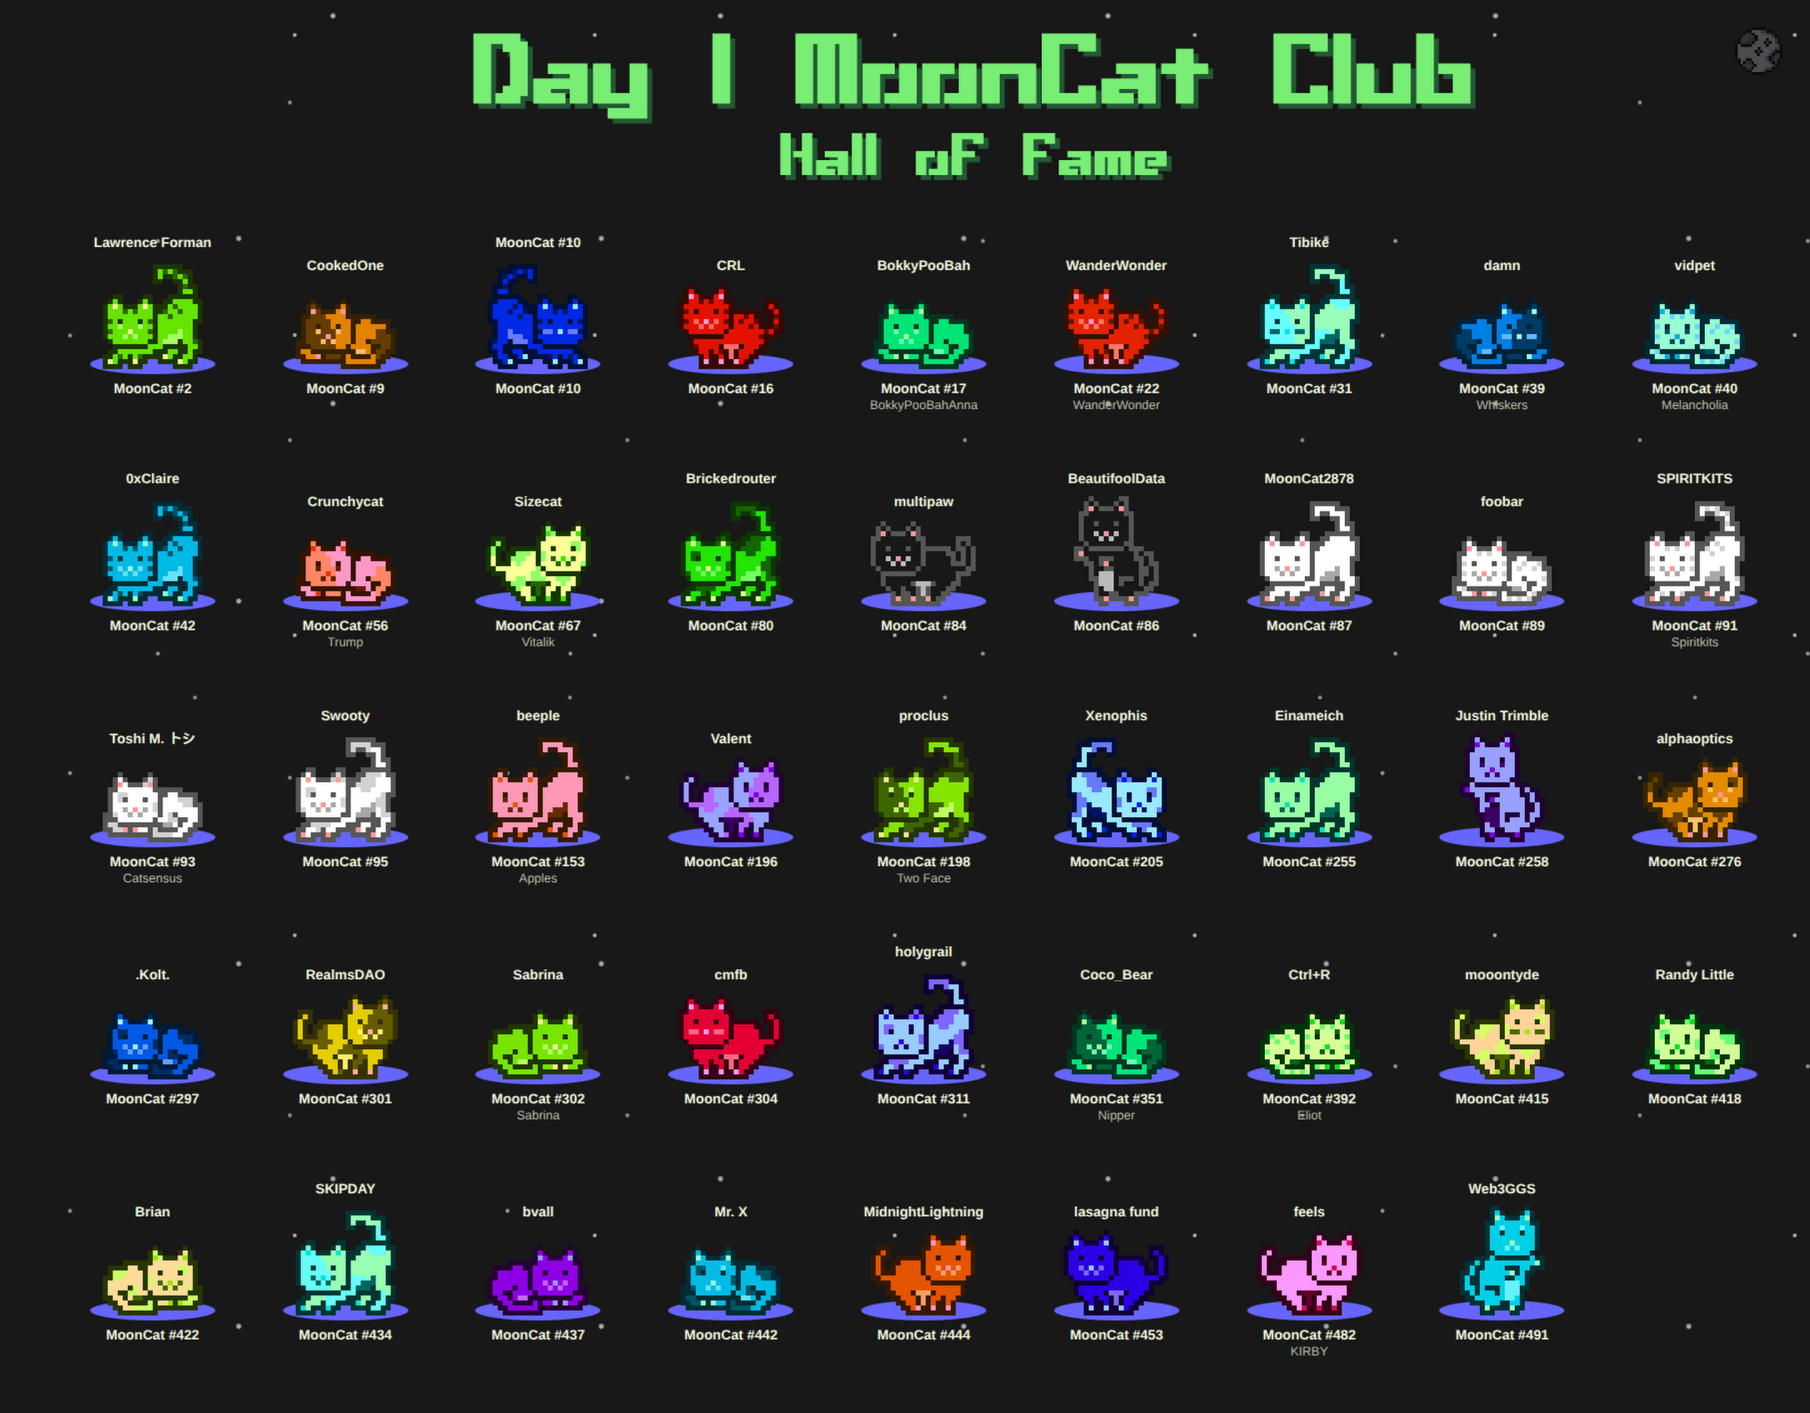
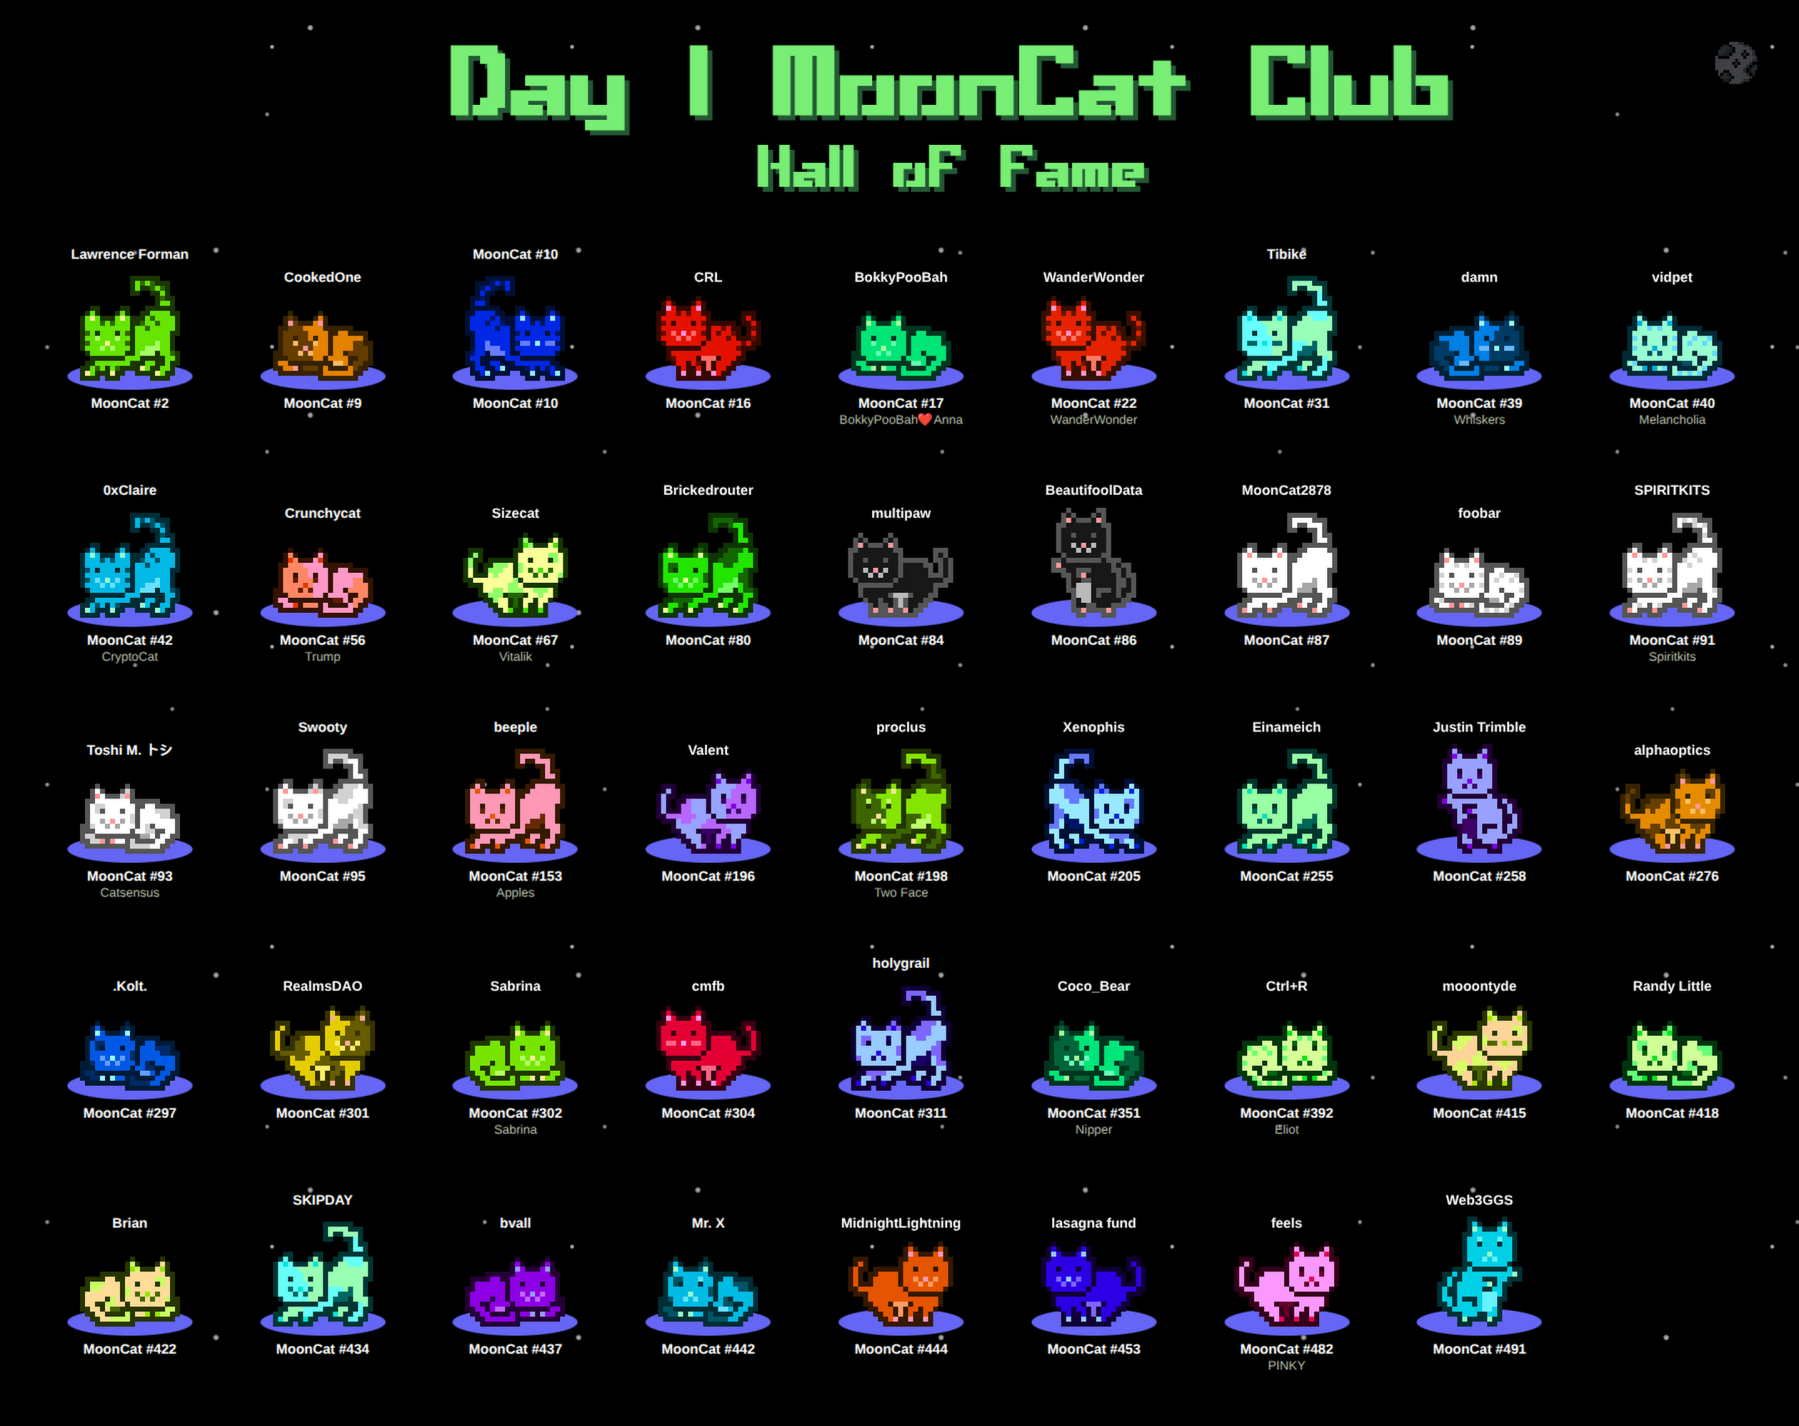
Add AC Rings theme

diff --git a/public/styles/site.css b/public/styles/site.css
@@ -1,11 +1,11 @@
 :root {
-  --bg: #111111;
+  --bg: #000000;
   --panel: #f0f4df;
   --panel-line: #151515;
   --panel-shadow: 3px 3px 0 rgba(0, 0, 0, 0.75);
   --mint: #79ef76;
   --mint-shadow: #1e5931;
-  --text: #111111;
+  --text: #000000;
   --muted: #3e3e3e;
   --control-bg: rgba(240, 244, 223, 0.95);
   --control-text: #111111;
@@ -18,11 +18,11 @@
 }
 
 body[data-theme="og"] {
-  --bg: #111111;
+  --bg: #000000;
   --panel: #f0f4df;
   --panel-line: #151515;
   --panel-shadow: 3px 3px 0 rgba(0, 0, 0, 0.75);
-  --text: #111111;
+  --text: #000000;
   --muted: #3e3e3e;
   --control-bg: #111111;
   --control-text: #f0f4df;
@@ -38,7 +38,7 @@ body[data-theme="light"] {
   --panel: #ffffff;
   --panel-line: #242424;
   --panel-shadow: none;
-  --text: #111111;
+  --text: #000000;
   --muted: #4f5350;
   --control-bg: #ffffff;
   --control-text: #111111;
@@ -50,11 +50,11 @@ body[data-theme="light"] {
 }
 
 body[data-theme="dark"] {
-  --bg: #111111;
+  --bg: #000000;
   --panel: #111111;
   --panel-line: #79ef76;
   --panel-shadow: none;
-  --text: #f0f4df;
+  --text: #ffffff;
   --muted: #b6bea8;
   --control-bg: #111111;
   --control-text: #f0f4df;
@@ -66,11 +66,11 @@ body[data-theme="dark"] {
 }
 
 body[data-theme="obsidian"] {
-  --bg: #111111;
+  --bg: #000000;
   --panel: #111111;
   --panel-line: #111111;
   --panel-shadow: none;
-  --text: #f0f4df;
+  --text: #ffffff;
   --muted: #b6bea8;
   --control-bg: #111111;
   --control-text: #f0f4df;
@@ -82,11 +82,11 @@ body[data-theme="obsidian"] {
 }
 
 body[data-theme="deepspace"] {
-  --bg: #111111;
+  --bg: #000000;
   --panel: transparent;
   --panel-line: transparent;
   --panel-shadow: none;
-  --text: #f0f4df;
+  --text: #ffffff;
   --muted: #b6bea8;
   --control-bg: #111111;
   --control-text: #f0f4df;
@@ -98,7 +98,7 @@ body[data-theme="deepspace"] {
 }
 
 body[data-theme="onlycats"] {
-  --bg: #111111;
+  --bg: #000000;
   --panel: transparent;
   --panel-line: transparent;
   --panel-shadow: none;
@@ -114,8 +114,10 @@ body[data-theme="onlycats"] {
 }
 
 body[data-theme="ac"],
-body[data-theme="ac-t"] {
-  --bg: #111111;
+body[data-theme="ac-t"],
+body[data-theme="ac-r"] {
+  --ac-platform-offset-y: 3px;
+  --bg: #000000;
   --panel: transparent;
   --panel-line: transparent;
   --panel-shadow: none;
@@ -133,8 +135,9 @@ body[data-theme="ac"] {
   --muted: transparent;
 }
 
-body[data-theme="ac-t"] {
-  --text: #f0f4df;
+body[data-theme="ac-t"],
+body[data-theme="ac-r"] {
+  --text: #ffffff;
   --muted: #b6bea8;
 }
 
@@ -593,26 +596,34 @@ body[data-theme="ac"] .member-bottom {
 }
 
 body[data-theme="ac"] .member-imageFrame,
-body[data-theme="ac-t"] .member-imageFrame {
+body[data-theme="ac-t"] .member-imageFrame,
+body[data-theme="ac-r"] .member-imageFrame {
   position: relative;
 }
 
 body[data-theme="ac"] .member-imageFrame::after,
-body[data-theme="ac-t"] .member-imageFrame::after {
+body[data-theme="ac-t"] .member-imageFrame::after,
+body[data-theme="ac-r"] .member-imageFrame::after {
   content: "";
   position: absolute;
   left: 50%;
-  bottom: 0px;
+  bottom: calc(0px - var(--ac-platform-offset-y));
   z-index: 0;
   width: 100px;
-  height: 16px;
+  height: 22px;
   border-radius: 50%;
-  background: #6666ff;
+  background: #6666f6;
   transform: translateX(-50%);
 }
 
+body[data-theme="ac-r"] .member-imageFrame::after {
+  border: 3px solid #ffffff;
+  background: #000000;
+}
+
 body[data-theme="ac"] .member-image,
-body[data-theme="ac-t"] .member-image {
+body[data-theme="ac-t"] .member-image,
+body[data-theme="ac-r"] .member-image {
   position: relative;
   z-index: 1;
 }
@@ -623,15 +634,17 @@ body[data-theme="ac-t"] .member-image {
   margin-top: 0;
 }
 
-body:not([data-theme="ac-t"]) .member-bottom {
+body:not([data-theme="ac-t"]):not([data-theme="ac-r"]) .member-bottom {
   transform: translateY(3px);
 }
 
-body[data-theme="ac-t"] .member-bottom {
-  transform: translateY(6px);
+body[data-theme="ac-t"] .member-bottom,
+body[data-theme="ac-r"] .member-bottom {
+  transform: translateY(calc(6px + var(--ac-platform-offset-y)));
 }
 
-body[data-theme="ac-t"] .grid {
+body[data-theme="ac-t"] .grid,
+body[data-theme="ac-r"] .grid {
   gap: 24px 8px;
 }
 

diff --git a/test/admin-core.test.js b/test/admin-core.test.js
@@ -304,6 +304,32 @@ test('public theme controls include an early-use dismissible hint', () => {
   assert.match(siteCss, /\.themeHint-arrow\s*\{[\s\S]*?font-size:\s*24px/)
 })
 
+test('AC Rings theme follows Adoption Center ordering and layout', () => {
+  const indexHtml = readProjectFile('public/index.html')
+  const siteJs = readProjectFile('public/scripts/site.js')
+  const siteCss = readProjectFile('public/styles/site.css')
+  const adoptionCenterOption = indexHtml.indexOf('<option value="ac-t">Adoption Center</option>')
+  const acRingsOption = indexHtml.indexOf('<option value="ac-r">AC Rings</option>')
+  const acOnlyCatsOption = indexHtml.indexOf('<option value="ac">AC OnlyCats</option>')
+  const adoptionCenterTheme = siteJs.indexOf('"ac-t"')
+  const acRingsTheme = siteJs.indexOf('"ac-r"')
+  const acOnlyCatsTheme = siteJs.indexOf('"ac"')
+
+  assert.notEqual(adoptionCenterOption, -1)
+  assert.notEqual(acRingsOption, -1)
+  assert.notEqual(acOnlyCatsOption, -1)
+  assert.ok(adoptionCenterOption < acRingsOption)
+  assert.ok(acRingsOption < acOnlyCatsOption)
+  assert.ok(adoptionCenterTheme < acRingsTheme)
+  assert.ok(acRingsTheme < acOnlyCatsTheme)
+  assert.match(siteCss, /body\[data-theme="ac"\],\s*body\[data-theme="ac-t"\],\s*body\[data-theme="ac-r"\]\s*\{[\s\S]*?--ac-platform-offset-y:\s*3px/)
+  assert.match(siteCss, /body\[data-theme="ac-t"\] \.member-imageFrame,\s*body\[data-theme="ac-r"\] \.member-imageFrame\s*\{[\s\S]*?position:\s*relative/)
+  assert.match(siteCss, /body\[data-theme="ac-t"\] \.member-imageFrame::after,\s*body\[data-theme="ac-r"\] \.member-imageFrame::after\s*\{[\s\S]*?bottom:\s*calc\(0px - var\(--ac-platform-offset-y\)\)[\s\S]*?width:\s*100px[\s\S]*?height:\s*22px/)
+  assert.match(siteCss, /body\[data-theme="ac-r"\] \.member-imageFrame::after\s*\{[\s\S]*?border:\s*3px solid #ffffff[\s\S]*?background:\s*#000000/)
+  assert.match(siteCss, /body\[data-theme="ac-t"\] \.member-bottom,\s*body\[data-theme="ac-r"\] \.member-bottom\s*\{[\s\S]*?transform:\s*translateY\(calc\(6px \+ var\(--ac-platform-offset-y\)\)\)/)
+  assert.match(siteCss, /body\[data-theme="ac-t"\] \.grid,\s*body\[data-theme="ac-r"\] \.grid\s*\{[\s\S]*?gap:\s*24px 8px/)
+})
+
 test('public MoonCat images link to rescue-index profiles with secure new-tab attributes', () => {
   const siteJs = readProjectFile('public/scripts/site.js')
   const profileUrlHelper = siteJs.match(

diff --git a/public/index.html b/public/index.html
@@ -52,6 +52,7 @@
             <label class="themePicker">
               <select id="themeSelect" aria-label="Select Hall of Fame theme">
                 <option value="ac-t">Adoption Center</option>
+                <option value="ac-r">AC Rings</option>
                 <option value="ac">AC OnlyCats</option>
                 <option value="og">OG</option>
                 <option value="light">Light</option>

diff --git a/public/scripts/site.js b/public/scripts/site.js
@@ -224,6 +224,7 @@ function initAccessoriesToggle() {
 function applyTheme(theme) {
   const allowedThemes = new Set([
     "ac-t",
+    "ac-r",
     "ac",
     "og",
     "light",
